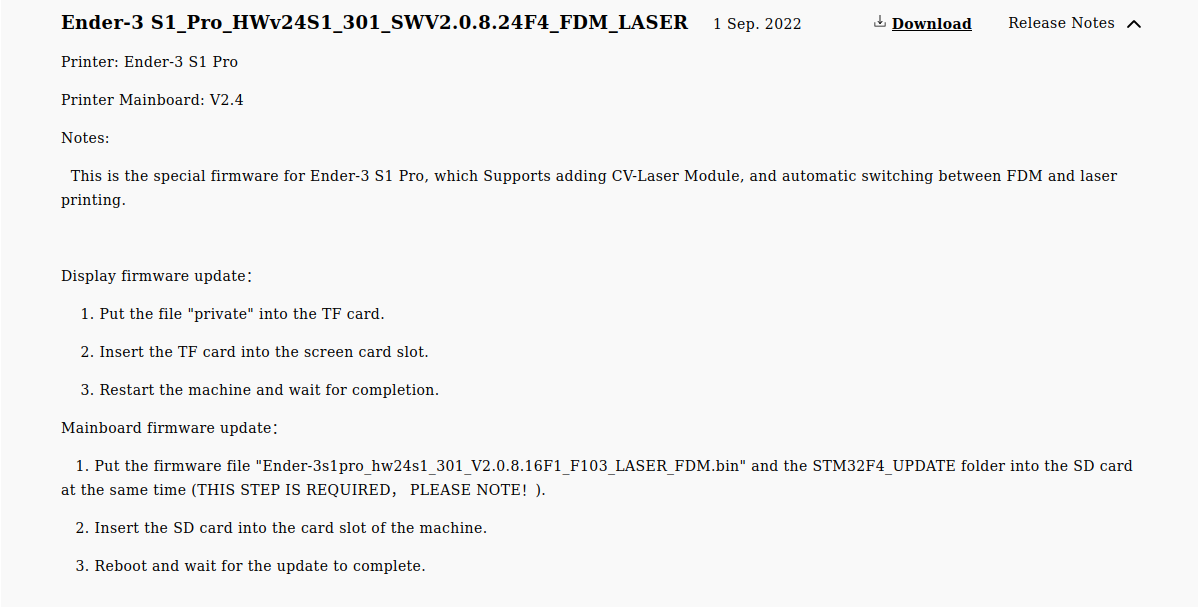
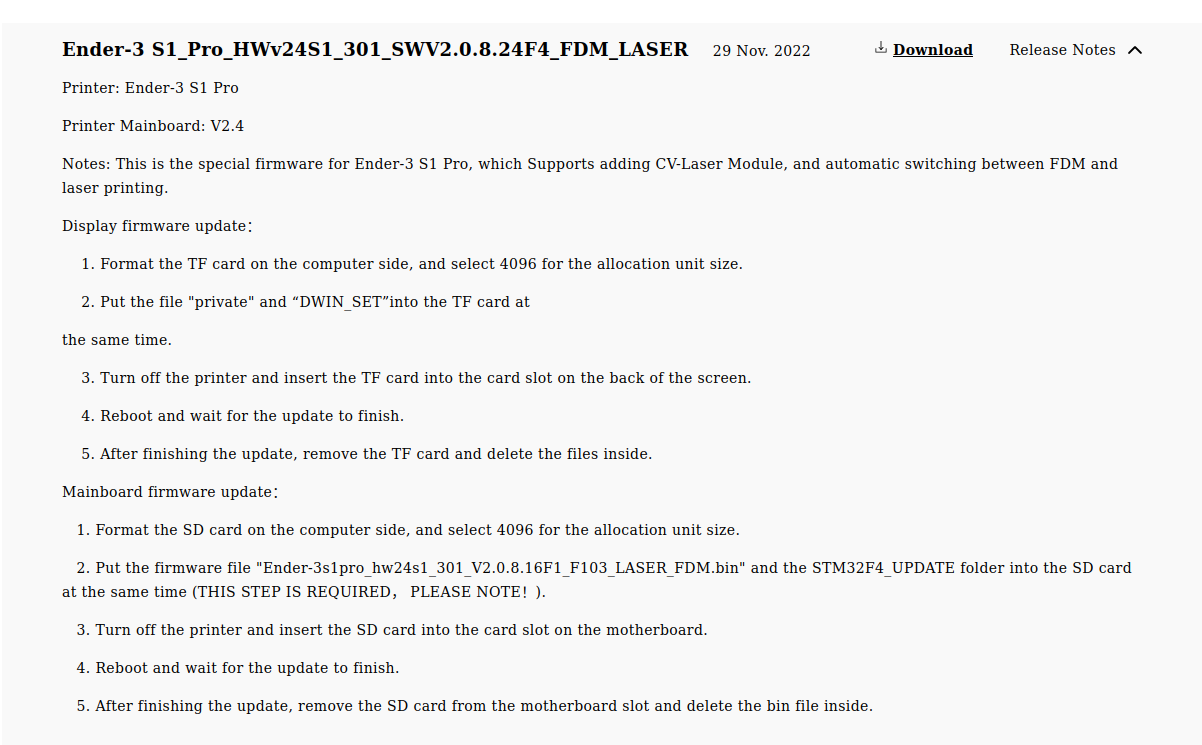
update of Readme.md; updated Release_Notes_of_firmware.png

diff --git a/Readme.md b/Readme.md
@@ -38,7 +38,8 @@ Since my new Creality Ender 3 S1 Pro 3D printer almost drove me crazy, here my c
 - Download the latest firmware from [here](https://www.creality.com/pages/download-ender-3-s1-pro)
 - **UPDATE 05th Dec 2022**: There is a new firmware [Ender-3 S1_Pro_HWv24S1_301_SWV2.0.8.24F4_FDM_LASER](https://img.staticdj.com/7dd7a212124f0e7c8153fdfbe741d140.zip) available at the Creality site since 29th Nov 2022. I've not yet tested this new version. I will do this within a couple of days and report it here.
 - **UPDATE 06th Dec 2022**: The firmware binaries of the release on 1st Sept 2022 and 29th November are identical: 2.0.8.24F4. I've no idea why Creality did a new release for no obvious reason.
-- So far I used the version  [Ender-3 S1_Pro_HWv24S1_301_SWV2.0.8.24F4_FDM_LASER 1 Sep. 2022](https://img.staticdj.com/5610ba6f2a2f941232db55c0ccac8f6b.zip)
+- **UPDATE 07th Dec 2022**: The Creality firmware updates dated 01.Sep.2022 and 29.Nov.2022 are differing just in the Readme.txt's installation instructions for the display firmware. Please follow the instructions of the latest released firmware version.
+- So far I used the version  [Ender-3 S1_Pro_HWv24S1_301_SWV2.0.8.24F4_FDM_LASER 29 Nov. 2022](https://img.staticdj.com/7dd7a212124f0e7c8153fdfbe741d140.zip)
 - Install the firmware according this YouTube video ['Service tutorial Ender- 3 S1 Pro flash the mainboard and screen firmware'](https://www.youtube.com/watch?v=NmoRRFW4zTc&t=81s)
 - Please note also the [Release Notes](./Release_Notes_of_firmware.png) in [Creality's release page](https://www.creality.com/pages/download-ender-3-s1-pro)
 
